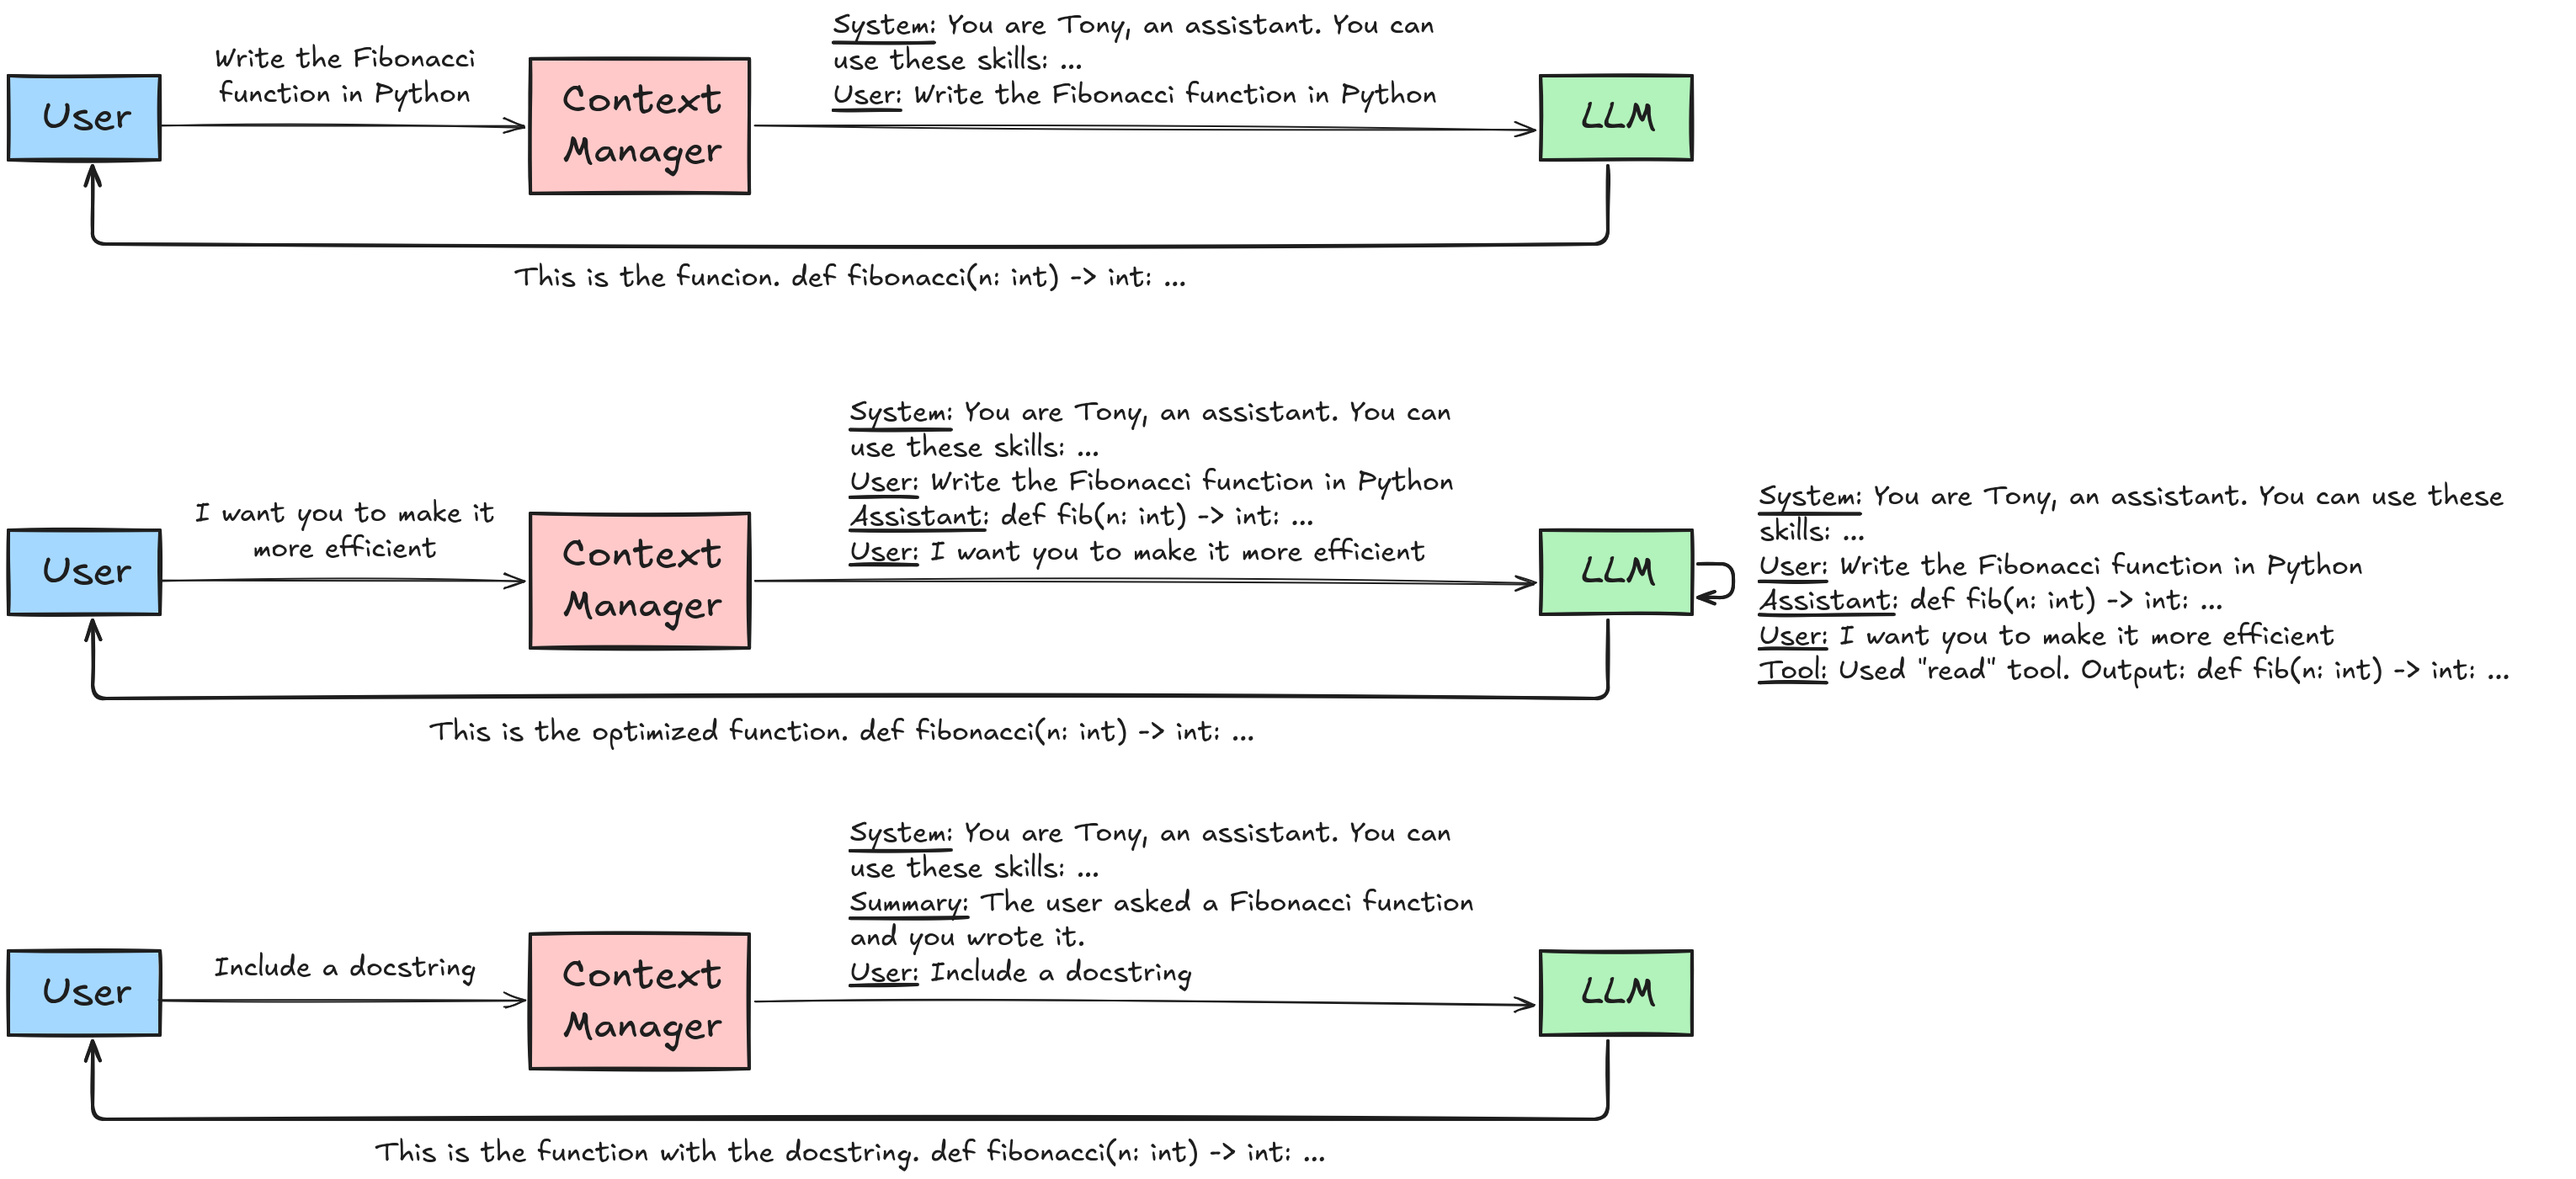
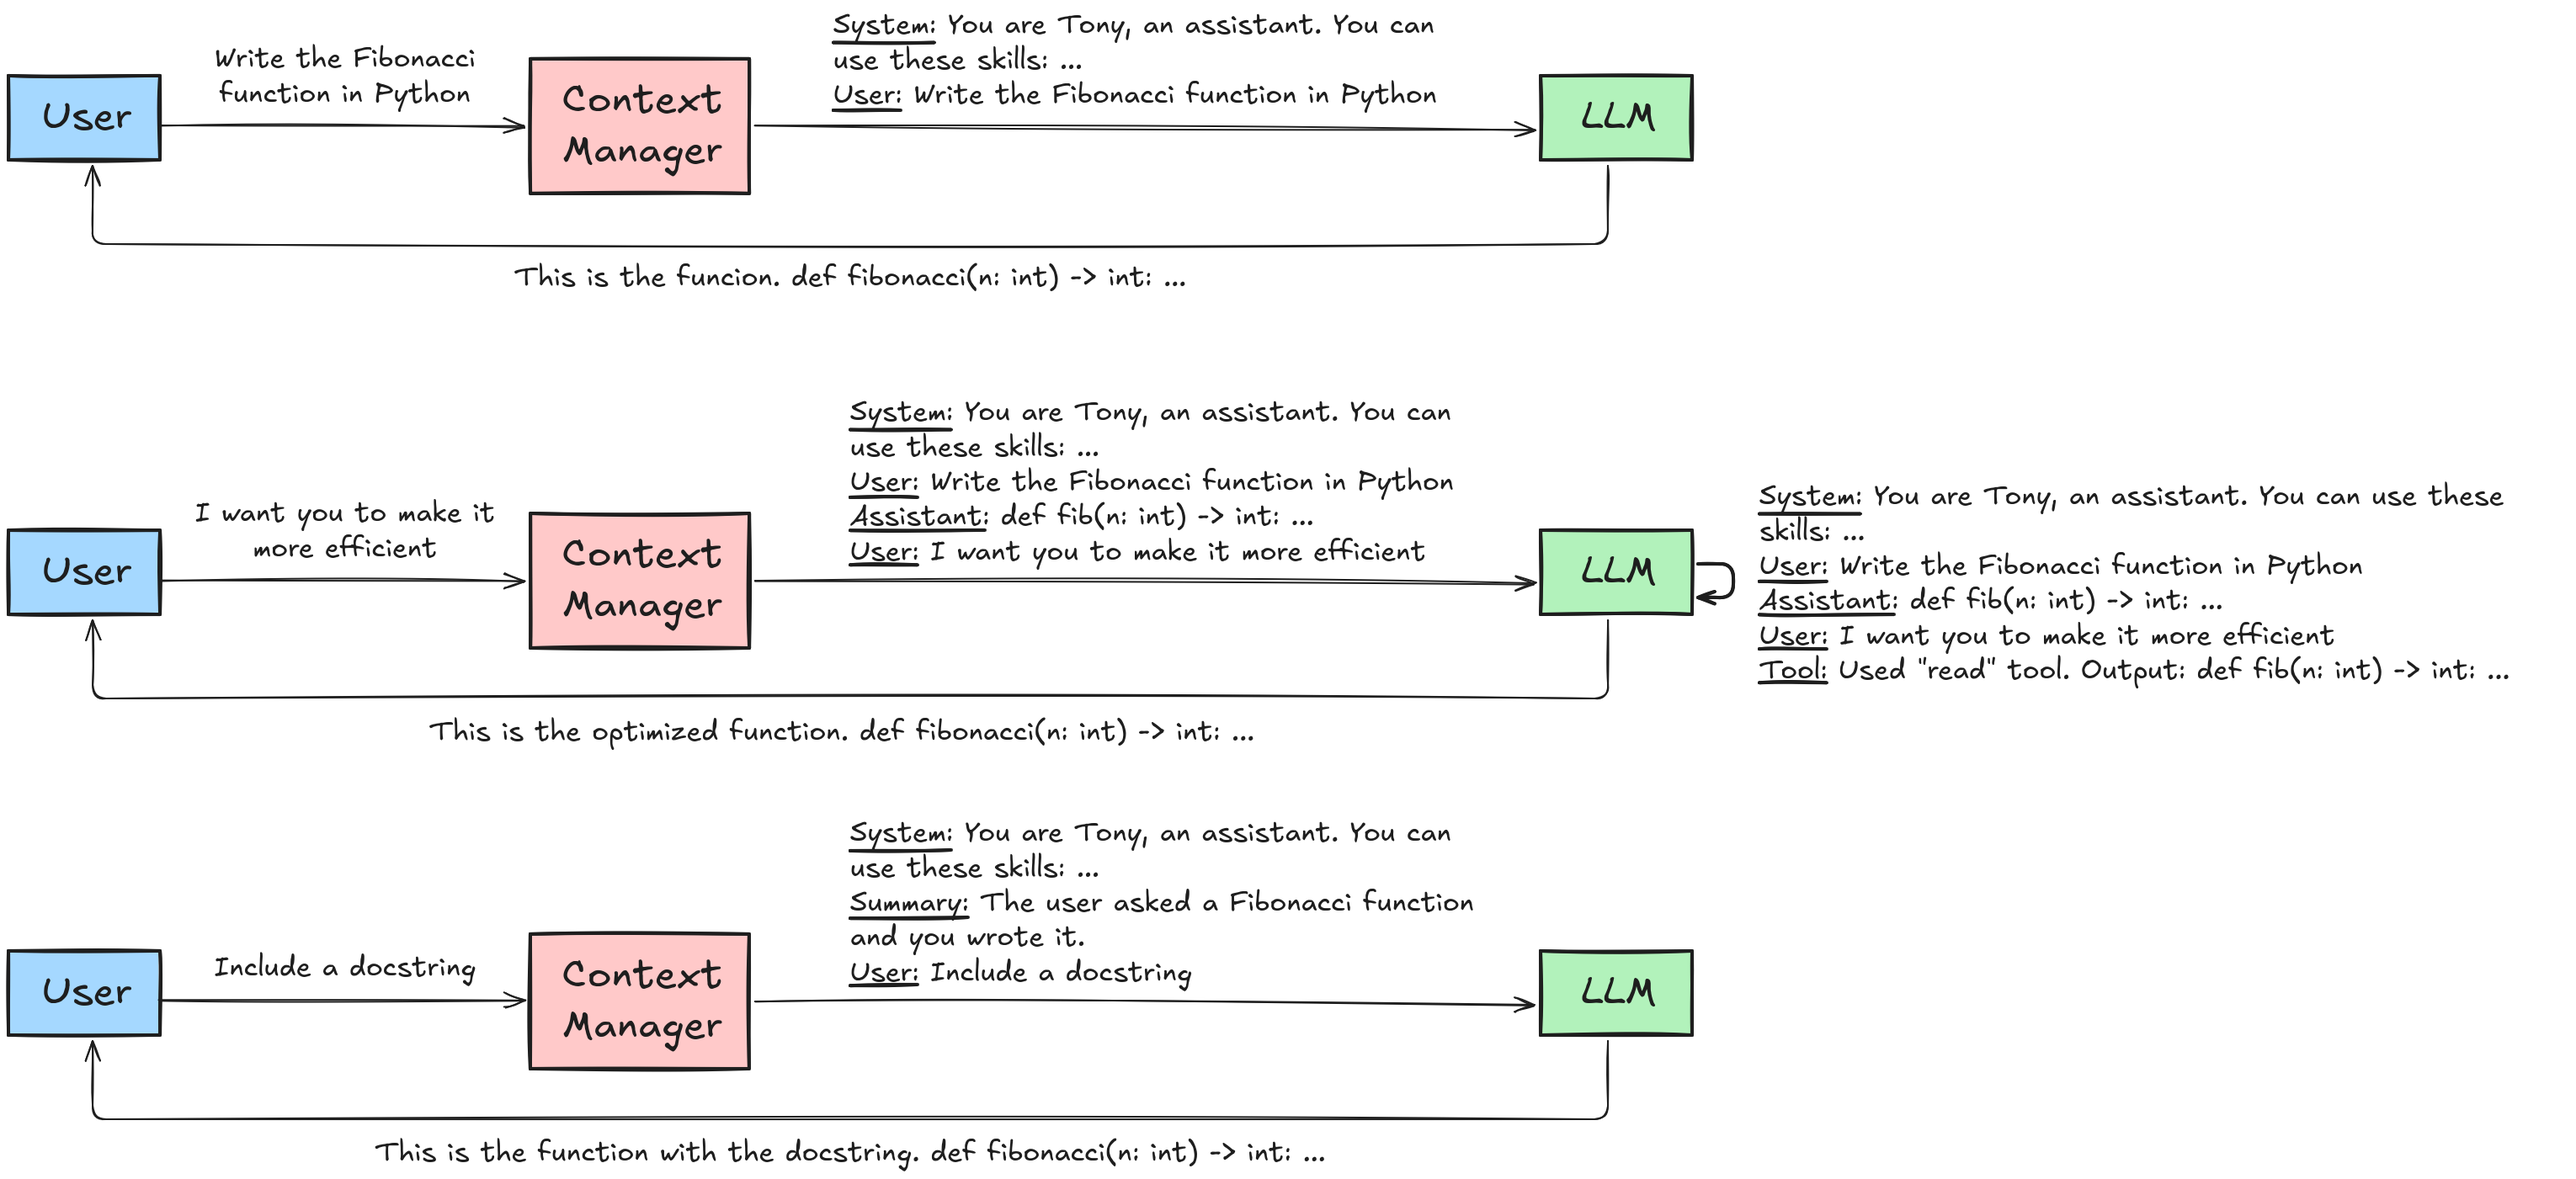
included images in readme

Changed region(s): [[0.2484, 0.9208, 0.4346, 0.9515]]

diff --git a/README.md b/README.md
@@ -8,6 +8,10 @@ the conversation. Ordinary text responses and plain JSON requests are also suppo
 The project is intentionally minimal. It is a useful base for learning how an
 agent loop works without hiding the important parts behind a large framework.
 
+![Conventional LLM, reasoning LLM, and LLM in an agent harness](images/harnes_eng.png)
+
+Illustration credit: Sebastián Raschka.
+
 ## Features
 
 - A simple model → action → result loop
@@ -24,6 +28,8 @@ agent loop works without hiding the important parts behind a large framework.
 ## How it works
 
 ### Flow overview
+
+![Agent harness architecture with numbered tool and subagent paths](images/schema.png)
 
 ```mermaid
 flowchart LR
@@ -86,6 +92,12 @@ arrows indicate responses. A direct answer skips both optional branches.
 Conversation history stores only conversation messages. Each agent model request
 prepends the prompt prefix once as a system message, without storing it in
 history. After `/compact` or `/reset`, the next turn still receives the prefix.
+
+![Conversation history across turns, tool use, and compaction](images/history.png)
+
+This is a conceptual view: `AgentHarness` assembles the model requests and records
+results, while `ContextManager` builds the system prefix. Compaction happens only
+when the user runs `/compact`.
 
 The Groq adapter registers native functions for the three tools and delegation,
 then converts native calls into the JSON formats below. The harness also accepts
